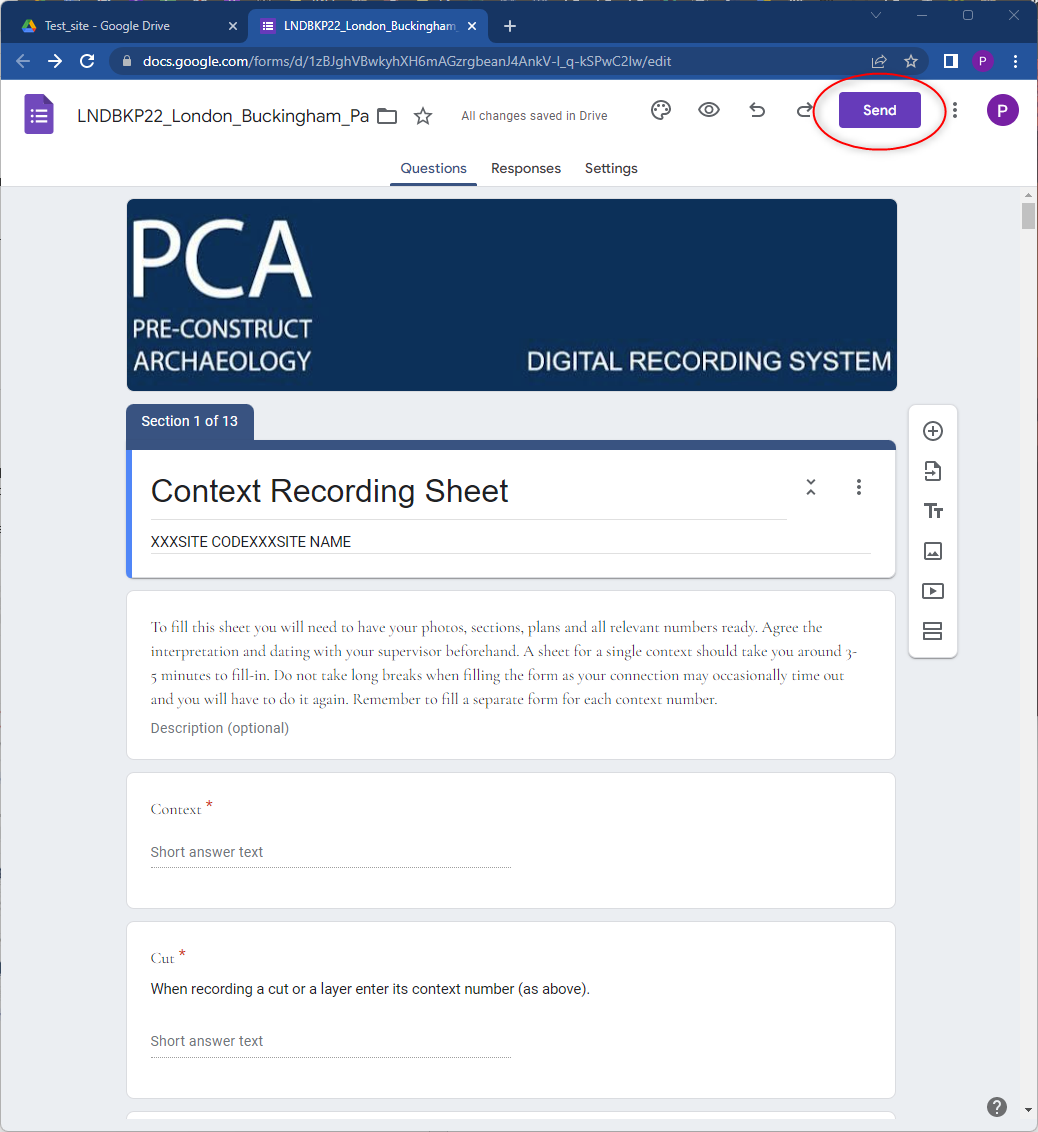
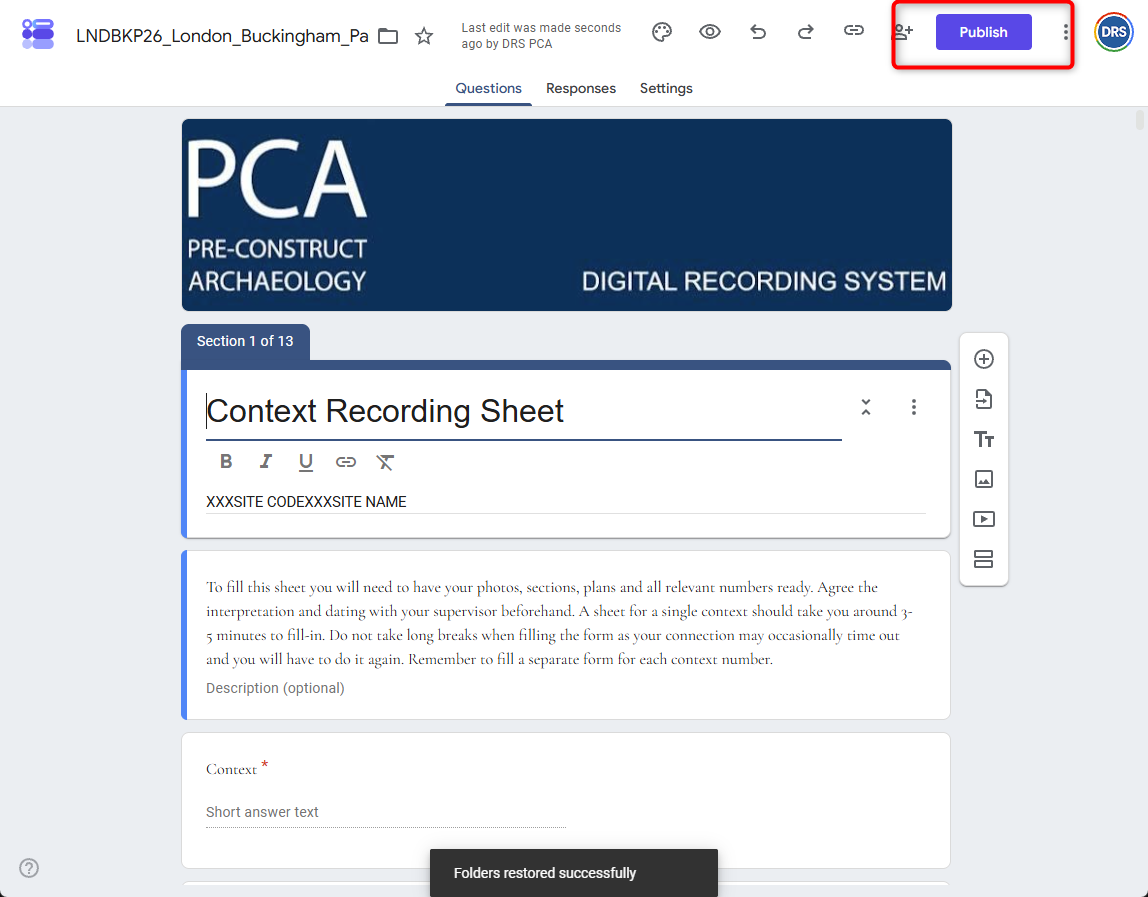
cahnginf DRS config 2026

diff --git a/docs/source/drs/drs_configuration/DRS_initial_configuration.rst b/docs/source/drs/drs_configuration/DRS_initial_configuration.rst
@@ -1,56 +1,60 @@
-.. Purpose: This chapter aims to describe how the user starts to use QGIS. It
-.. should be kept short with only few steps to get QGIS working with two layers.
+.. Purpose: This chapter explains how to set up a new DRS project.
+.. It should be kept short, with only the essential steps needed to configure the cloud files and tablets.
 
 .. _`label.getstarted`:
 
-***************
-DRS Initial Configuration
-***************
+*********************
+DRS Project Setup
+*********************
 
-This chapter provides a quick overview of how to configure the DRS on Cloud and tablets for  a new project.
+This chapter explains how to set up a new DRS project, including the cloud storage, Google Form, Google Spreadsheet and site tablets.
 
-Configuring a new folder on the cloud DRS storage account
-----------------------
+The DRS setup consists of three main components:
 
-The current DRS data is stored in a main Google Drive account. 
+* A project folder in Google Drive.
+* A Google Form used for data collection.
+* A Google Spreadsheet used to store and review the submitted data.
 
-.. note:: 
-   Contact [email redacted] for the credentials.
-   
-1. Open Google Drive DRS main account.
+Creating the Project Folder
+---------------------------
+
+The current DRS data is stored in a main Google Drive account.
+
+.. note::
+   Contact [email redacted] to obtain the required credentials.
+
+1. Open the main Google Drive DRS account.
 
 The internal folder structure of Google Drive is the same as that used on the local server project folder, with a subdivision in counties, towns and sites.
 
-2. Create a new Project folder for your project. If a subdivision in areas is planned, consider using the same subdivision in the folder structure.
+2. Create a new project folder for your project. If a subdivision into areas is planned, consider using the same subdivision in the folder structure.
 
-3. Right-click on the DRS Form template located in the home and select **Make a copy**
+3. Right-click on the DRS Form template located in the home folder and select **Make a copy**.
 
 .. image:: images/DRS_initial_configuration_001.png
    :width: 600
    :align: center
 
-4. Move your copy into the project folder. Right-click on the form and select **Move to**
+4. Move your copy into the project folder. Right-click on the form and select **Move to**.
 
 .. image:: images/DRS_initial_configuration_002.png
    :width: 600
    :align: center
 
-5. Go to your project folder and rename your copy of the Form template with your Site Code and Site Name (e.g., *LNDBKP22_London_Buckingham_Palace_PCA_DRS_Trench_sheet* or *LNDBKP22_London_Buckingham_Palace_PCA_DRS_Context _sheet*)
+5. Go to your project folder and rename your copy of the Form template with your Site Code and Site Name, for example *LNDBKP22_London_Buckingham_Palace_PCA_DRS_Trench_sheet* or *LNDBKP22_London_Buckingham_Palace_PCA_DRS_Context_sheet*.
 
-Configuring the Google Form and the Google Spreadsheet
-----------------------
+Setting Up the Form and Spreadsheet
+-----------------------------------
 
-6. Open the form. When the Form is being opened for the first time, a message will appear asking to restore the *Missing File Upload folders*.
+6. Open the Form. When the Form is opened for the first time, a message will appear asking you to restore the *Missing File Upload folders*.
 
-  Those are the folders where the images used as attachments (e.g., sketches or feature overview photos) will be stored.
+These are the folders where images used as attachments, such as sketches or feature overview photos, will be stored.
 
 7. Press **Restore** to allow Google to automatically create the required subfolder structure.
-   
+
 .. image:: images/DRS_initial_configuration_003.png
    :width: 600
    :align: center
-
-
 
 8. In the top part of the Form, add your SITECODE and SITENAME.
 
@@ -58,149 +62,140 @@ Configuring the Google Form and the Google Spreadsheet
    :width: 600
    :align: center
 
-**The form is now ready**. The next step is to create the associated Google spreadsheet that will collect all the data generated by the form.
+**The Form is now ready.** The next step is to create the associated Google Spreadsheet that will collect all the data generated by the Form.
 
-9. On the form, select the tab Responses and click on the Spreadsheet icon
+9. On the Form, select the **Responses** tab and click on the Spreadsheet icon.
 
 .. image:: images/DRS_initial_configuration_005.png
    :width: 600
    :align: center
 
-10. In the new popup window check that the first option is selected (*Create a new spreadsheet*) and click on **Create**.
+10. In the pop-up window, check that the first option is selected, *Create a new spreadsheet*, and click on **Create**.
 
 .. image:: images/DRS_initial_configuration_006.png
    :width: 600
    :align: center
 
+The files are now ready on the main Google Drive account. They need to be sent or shared so they can be used on site tablets.
 
-Our files are now ready on the main Google Drive account. They need to be sent or shared to be used on site on the tablets.
-
-Configuring the tablets
+Setting Up the Tablets
 ----------------------
 
-Sending the Google Form to the tablets
-~~~~~~~~~~~~~~~~~~~~~~~~~~~~~~~~~~~~~~
+Sending the Form to Tablets
+~~~~~~~~~~~~~~~~~~~~~~~~~~~
 
-11. As we want people on site to be able to fill out the form, but not modify it, we just send an email an invitation to fill out the form.
-On the open form, click on **Share**.
+11. As people on site need to be able to fill out the Form but not modify it, send them an invitation to fill out the Form.
 
+On the open Form, click on **Publish**.
 
 .. image:: images/DRS_initial_configuration_007.png
    :width: 600
    :align: center
 
-On the new opened popup window, add the tablet Google account email (1) (it is possible to add more than one email for time). Check that the option *Include form in email* (2) is unchecked and then, press **Send** (3)
+In the pop-up window, click **Publish** again to confirm.
+
+.. image:: images/DRS_initial_configuration_007_b.png
+   :width: 600
+   :align: center
+
+After this, the status of the Form will change to **Published**. You can now share it by pressing the sharing icon on the left of the Published status.
+
+.. image:: images/DRS_initial_configuration_007_c.png
+   :width: 600
+   :align: center
+
+In the pop-up window, add the tablet Google account email address (1). Multiple email addresses can be added at the same time. Check that the status *Responder* (2) is unchecked and then press **Send**.
 
 .. image:: images/DRS_initial_configuration_008.png
    :width: 600
    :align: center
 
-12. On the tablet, open Gmail to access the received email and click on Fill out Form to open it on the browser. 
+12. On the tablet, open Gmail to access the received email and click on **Fill out Form** to open it in the browser.
 
 .. image:: images/DRS_initial_configuration_009.png
    :width: 600
    :align: center
-   
-On the browser (usually Google Chrome), on the open form, is possible to send the page as a bookmark on the home screen, to have quick access to it.
 
-To create a bookmark, press the three dots icon on the top right corner and then, select Add to Home screen. 
+On the browser, usually Google Chrome, the open Form can be added as a bookmark on the home screen for quick access.
+
+To create a bookmark, press the three dots icon in the top-right corner and select **Add to Home screen**.
 
 .. image:: images/DRS_initial_configuration_013.png
    :width: 1300
    :align: center
 
-Confirm the operation by pressing Add in both dialogues that will appear 
+Confirm the operation by pressing **Add** in both dialogues that appear.
 
 .. image:: images/DRS_initial_configuration_019.png
    :width: 700
    :align: center
 
+The bookmark will now be available on the home screen.
 
-and the bookmark will be available on the home screen.
+Sharing the Spreadsheet with Tablets
+~~~~~~~~~~~~~~~~~~~~~~~~~~~~~~~~~~~~
 
+13. Unlike the Form, the Spreadsheet may need to be reviewed, commented on, or corrected. For this reason, it is shared directly with tablet users.
 
-Sharing the Google Spreadsheet with the tablets
-~~~~~~~~~~~~~~~~~~~~~~~~~~~~~~~~~~~~~~~~~~~~~~~
-
-13. Unlike before, we want people to be able to access the table for comments and changes.
-
-In this case, therefore, instead of sending a link, we will share the table with the tablet Google account.
-
-Open the Spreadsheet and click on *Share*
+Open the Spreadsheet and click on **Share**.
 
 .. image:: images/DRS_initial_configuration_010.png
    :width: 600
    :align: center
 
-
-In the new popup window click on **Add people and groups** and add the tablet Google Account.
+In the pop-up window, click on **Add people and groups** and add the tablet Google account.
 
 .. image:: images/DRS_initial_configuration_011.png
    :width: 600
    :align: center
-   
-   
 
-A new window will open. Here you can define the level of permit that you want to give to the tablet’s account. 
-Click on **Editor** and select the desired option.
+A new window will open. Here you can define the permission level that you want to give to the tablet account.
+
+Click on **Editor** and select the required option.
 
 .. image:: images/DRS_initial_configuration_012.png
    :width: 600
    :align: center
 
-   - A Viewer can only see the spreadsheet.
-   
-   - A Commenter can add comments but can’t edit the spreadsheet.
-   
-   - An Editor can see the comments and edit the spreadsheet.
-   
-Usually, all the tablets need at least Commenter permits to allow people to add a comment to request a correction or an amendment on the data they inserted through the form.
-Only one tablet, used by the PO/Supervisor, will have Editor permits to allow corrections.
+   - A Viewer can only see the Spreadsheet.
 
-Configure the sharing according to the chosen strategy and press *Send* to share the spreadsheet.
-Repeat the operation for all the tablets in use on-site.
+   - A Commenter can add comments but cannot edit the Spreadsheet.
 
-14. On the tablet, open Gmail to access the shared copy of the spreadsheet.
-The procedure to create the bookmark on the home screen is slightly different from the one used for the form.
+   - An Editor can see comments and edit the Spreadsheet.
 
-This is because we will normally access the spreadsheet using a dedicated app (Google Sheets) but in order to create the bookmark it is necessary to open manually the link via Chrome.
+Usually, all tablets need at least Commenter permission to allow users to add comments and request corrections or amendments to data inserted through the Form.
 
-On Gmail, access to the received email and press and hold Open to open the options dialogue. *Select Copy URL*
+Only one tablet, used by the PO or Supervisor, will normally have Editor permission to allow corrections.
+
+Configure the sharing according to the chosen strategy and press **Send** to share the Spreadsheet.
+
+Repeat the operation for all tablets in use on site.
+
+14. On the tablet, open Gmail to access the shared Spreadsheet.
+
+The procedure to create the bookmark on the home screen is slightly different from the one used for the Form.
+
+This is because the Spreadsheet will normally be accessed using the dedicated Google Sheets app. However, to create the bookmark, it is necessary to open the link manually in Chrome.
+
+On Gmail, open the received email, then press and hold **Open** to open the options dialogue. Select **Copy URL**.
 
 .. image:: images/DRS_initial_configuration_016.png
    :width: 1300
    :align: center
-   
-Open Google Chrome and paste the address on the Browser address bar [1]. Then, press on the *three dots* icon [2] on the top right corner and then, select *Add to Home screen*. 
+
+Open Google Chrome and paste the address into the browser address bar (1). Then press the three dots icon (2) in the top-right corner and select **Add to Home screen**.
 
 .. image:: images/DRS_initial_configuration_017.png
    :width: 1300
    :align: center
-   
-This operation will create the bookmark on the home screen. 
 
-Finally, if available, press Use the app in the bottom right to see the spreadsheet using Google Sheets.
+This operation will create the bookmark on the home screen.
 
-NB. This last step will appear only the first time, so if you already choose it before, you can ignore this step.
+Finally, if available, press **Use the app** in the bottom-right corner to view the Spreadsheet using Google Sheets.
+
+.. note::
+   This last step will appear only the first time. If you have already selected this option before, you can ignore this step.
 
 .. image:: images/DRS_initial_configuration_018.jpg
    :width: 600
    :align: center
-
-
-
-   
-   
-   
-   
-   
-   
-   
-   
-   
-   
-   
-   
-   
-   
-   